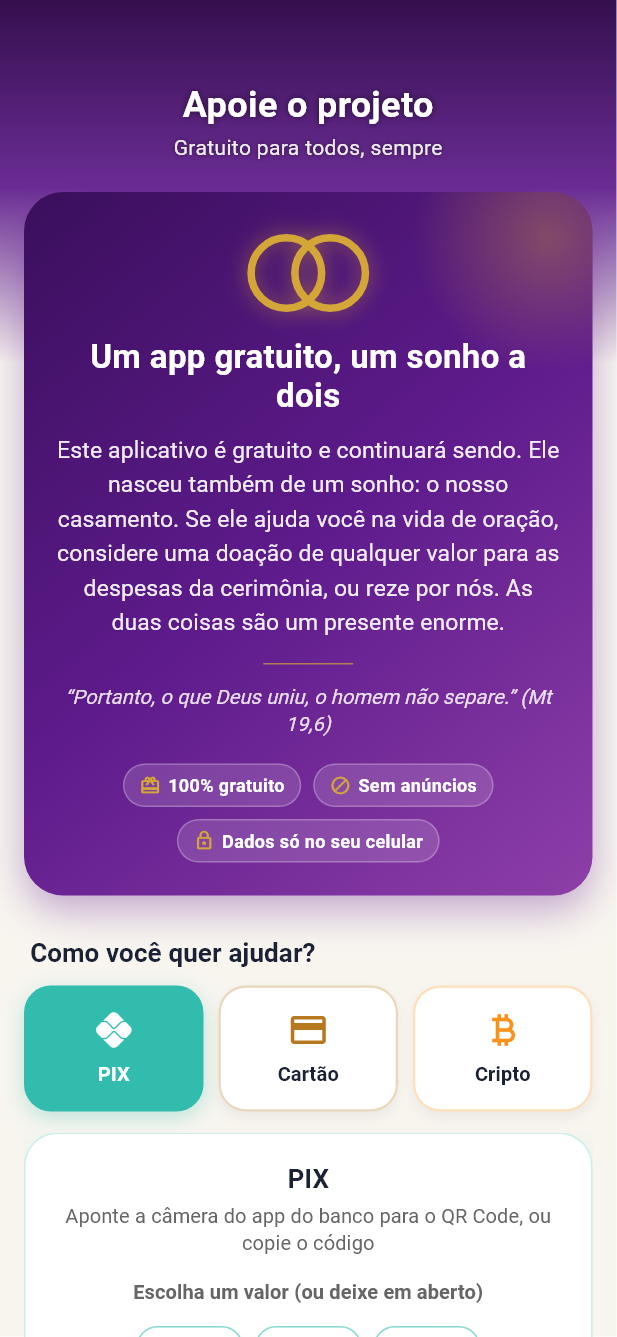
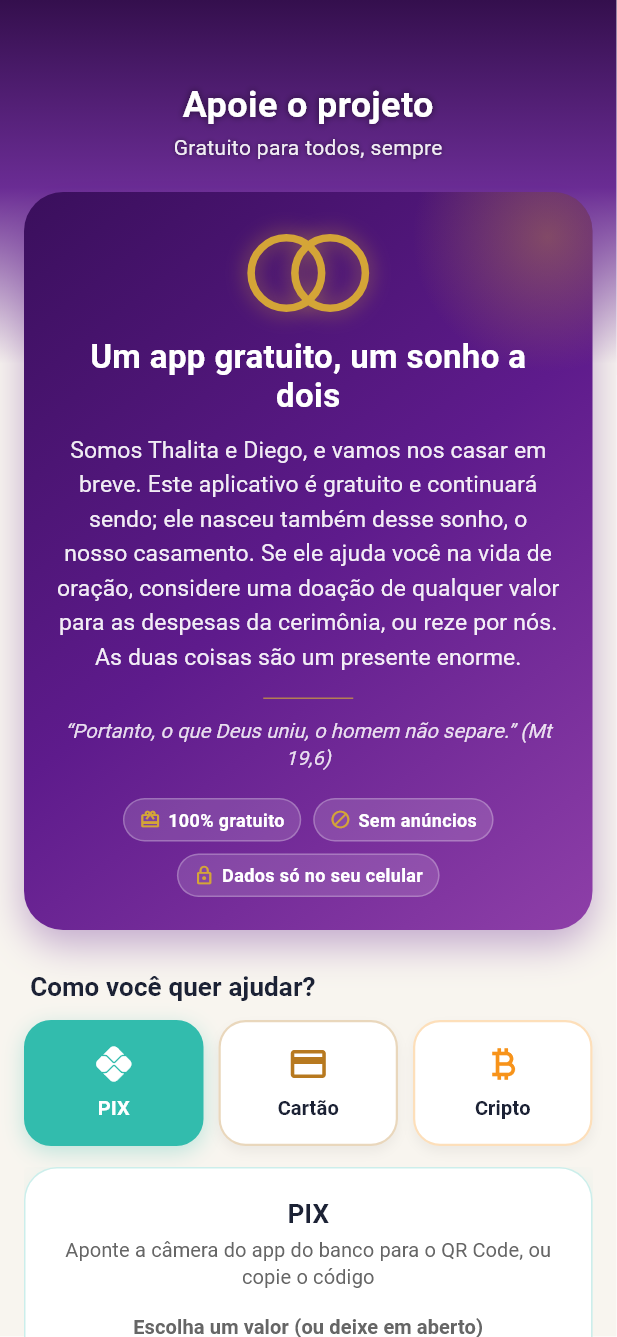
Nomes dos noivos, Thalita e Diego, no Apoie o projeto, avisos e ficha da loja; versão 1.0.1

Changed region(s): [[0.0308, 0.3067, 0.9854, 1.0], [0.8622, 0.8893, 0.893, 0.9506]]

diff --git a/lib/l10n/app_localizations.dart b/lib/l10n/app_localizations.dart
@@ -10313,7 +10313,7 @@ abstract class AppLocalizations {
   /// No description provided for @supportStory.
   ///
   /// In pt, this message translates to:
-  /// **'Este aplicativo é gratuito e continuará sendo. Ele nasceu também de um sonho: o nosso casamento. Se ele ajuda você na vida de oração, considere uma doação de qualquer valor para as despesas da cerimônia, ou reze por nós. As duas coisas são um presente enorme.'**
+  /// **'Somos Thalita e Diego, e vamos nos casar em breve. Este aplicativo é gratuito e continuará sendo; ele nasceu também desse sonho, o nosso casamento. Se ele ajuda você na vida de oração, considere uma doação de qualquer valor para as despesas da cerimônia, ou reze por nós. As duas coisas são um presente enorme.'**
   String get supportStory;
 
   /// No description provided for @supportSectionPrayer.
@@ -10337,7 +10337,7 @@ abstract class AppLocalizations {
   /// No description provided for @supportPrayerDesc.
   ///
   /// In pt, this message translates to:
-  /// **'Uma Ave-Maria pelo nosso casamento e pela nossa futura família'**
+  /// **'Uma Ave-Maria pelo casamento de Thalita e Diego e pela nossa futura família'**
   String get supportPrayerDesc;
 
   /// No description provided for @supportPrayerButton.
@@ -10451,7 +10451,7 @@ abstract class AppLocalizations {
   /// No description provided for @nudgeBody.
   ///
   /// In pt, this message translates to:
-  /// **'Este app é gratuito e nasceu para ajudar nas despesas do nosso casamento. Se ele faz bem à sua vida de oração, considere uma doação, ou reze uma Ave-Maria por nós.'**
+  /// **'Este app é gratuito e nasceu para ajudar nas despesas do nosso casamento. Se ele faz bem à sua vida de oração, considere uma doação, ou reze uma Ave-Maria por nós. Thalita e Diego'**
   String get nudgeBody;
 
   /// No description provided for @nudgeSupport.
@@ -10823,13 +10823,13 @@ abstract class AppLocalizations {
   /// No description provided for @onbProjectBody.
   ///
   /// In pt, this message translates to:
-  /// **'O Sancta é gratuito e sem anúncios. Foi feito por um casal que está se preparando para o matrimônio. Rezar por nós já é um grande presente; quem quiser ajudar encontra como em Sobre o Projeto, no menu.'**
+  /// **'O Sancta é gratuito e sem anúncios. Foi feito por Thalita e Diego, um casal que está se preparando para o matrimônio. Rezar por nós já é um grande presente; quem quiser ajudar encontra como em Sobre o Projeto, no menu.'**
   String get onbProjectBody;
 
   /// No description provided for @onbProjectBodyStore.
   ///
   /// In pt, this message translates to:
-  /// **'O Sancta é gratuito e sem anúncios. Foi feito por um casal que está se preparando para o matrimônio. Se puder, reze por nós!'**
+  /// **'O Sancta é gratuito e sem anúncios. Foi feito por Thalita e Diego, um casal que está se preparando para o matrimônio. Se puder, reze por nós!'**
   String get onbProjectBodyStore;
 
   /// No description provided for @onbReadyTitle.
@@ -10871,13 +10871,13 @@ abstract class AppLocalizations {
   /// No description provided for @afterTourBody.
   ///
   /// In pt, this message translates to:
-  /// **'O Sancta foi criado para ajudar a pagar as despesas do meu casamento, mas também para que os católicos rezem bem e vivam a fé a cada dia. Ele é gratuito e sem anúncios. Se ele te ajuda e você quiser colaborar, toque no botão abaixo; e uma oração por nós já é um grande presente.'**
+  /// **'O Sancta foi criado por Thalita e Diego para ajudar a pagar as despesas do nosso casamento, mas também para que os católicos rezem bem e vivam a fé a cada dia. Ele é gratuito e sem anúncios. Se ele te ajuda e você quiser colaborar, toque no botão abaixo; e uma oração por nós já é um grande presente.'**
   String get afterTourBody;
 
   /// No description provided for @afterTourBodyStore.
   ///
   /// In pt, this message translates to:
-  /// **'O Sancta foi criado para que os católicos rezem bem e vivam a fé a cada dia, e também para ajudar nas despesas do meu casamento. Ele é gratuito e sem anúncios. Uma oração por nós já é um grande presente.'**
+  /// **'O Sancta foi criado por Thalita e Diego para que os católicos rezem bem e vivam a fé a cada dia, e também para ajudar nas despesas do nosso casamento. Ele é gratuito e sem anúncios. Uma oração por nós já é um grande presente.'**
   String get afterTourBodyStore;
 
   /// No description provided for @afterTourButton.

diff --git a/lib/l10n/app_localizations_pt.dart b/lib/l10n/app_localizations_pt.dart
@@ -6116,7 +6116,7 @@ class AppLocalizationsPt extends AppLocalizations {
 
   @override
   String get supportStory =>
-      'Este aplicativo é gratuito e continuará sendo. Ele nasceu também de um sonho: o nosso casamento. Se ele ajuda você na vida de oração, considere uma doação de qualquer valor para as despesas da cerimônia, ou reze por nós. As duas coisas são um presente enorme.';
+      'Somos Thalita e Diego, e vamos nos casar em breve. Este aplicativo é gratuito e continuará sendo; ele nasceu também desse sonho, o nosso casamento. Se ele ajuda você na vida de oração, considere uma doação de qualquer valor para as despesas da cerimônia, ou reze por nós. As duas coisas são um presente enorme.';
 
   @override
   String get supportSectionPrayer => 'Com oração';
@@ -6129,7 +6129,7 @@ class AppLocalizationsPt extends AppLocalizations {
 
   @override
   String get supportPrayerDesc =>
-      'Uma Ave-Maria pelo nosso casamento e pela nossa futura família';
+      'Uma Ave-Maria pelo casamento de Thalita e Diego e pela nossa futura família';
 
   @override
   String get supportPrayerButton => 'Vou rezar por vocês';
@@ -6191,7 +6191,7 @@ class AppLocalizationsPt extends AppLocalizations {
 
   @override
   String get nudgeBody =>
-      'Este app é gratuito e nasceu para ajudar nas despesas do nosso casamento. Se ele faz bem à sua vida de oração, considere uma doação, ou reze uma Ave-Maria por nós.';
+      'Este app é gratuito e nasceu para ajudar nas despesas do nosso casamento. Se ele faz bem à sua vida de oração, considere uma doação, ou reze uma Ave-Maria por nós. Thalita e Diego';
 
   @override
   String get nudgeSupport => 'Apoiar';
@@ -6398,11 +6398,11 @@ class AppLocalizationsPt extends AppLocalizations {
 
   @override
   String get onbProjectBody =>
-      'O Sancta é gratuito e sem anúncios. Foi feito por um casal que está se preparando para o matrimônio. Rezar por nós já é um grande presente; quem quiser ajudar encontra como em Sobre o Projeto, no menu.';
+      'O Sancta é gratuito e sem anúncios. Foi feito por Thalita e Diego, um casal que está se preparando para o matrimônio. Rezar por nós já é um grande presente; quem quiser ajudar encontra como em Sobre o Projeto, no menu.';
 
   @override
   String get onbProjectBodyStore =>
-      'O Sancta é gratuito e sem anúncios. Foi feito por um casal que está se preparando para o matrimônio. Se puder, reze por nós!';
+      'O Sancta é gratuito e sem anúncios. Foi feito por Thalita e Diego, um casal que está se preparando para o matrimônio. Se puder, reze por nós!';
 
   @override
   String get onbReadyTitle => 'Tudo pronto!';
@@ -6426,11 +6426,11 @@ class AppLocalizationsPt extends AppLocalizations {
 
   @override
   String get afterTourBody =>
-      'O Sancta foi criado para ajudar a pagar as despesas do meu casamento, mas também para que os católicos rezem bem e vivam a fé a cada dia. Ele é gratuito e sem anúncios. Se ele te ajuda e você quiser colaborar, toque no botão abaixo; e uma oração por nós já é um grande presente.';
+      'O Sancta foi criado por Thalita e Diego para ajudar a pagar as despesas do nosso casamento, mas também para que os católicos rezem bem e vivam a fé a cada dia. Ele é gratuito e sem anúncios. Se ele te ajuda e você quiser colaborar, toque no botão abaixo; e uma oração por nós já é um grande presente.';
 
   @override
   String get afterTourBodyStore =>
-      'O Sancta foi criado para que os católicos rezem bem e vivam a fé a cada dia, e também para ajudar nas despesas do meu casamento. Ele é gratuito e sem anúncios. Uma oração por nós já é um grande presente.';
+      'O Sancta foi criado por Thalita e Diego para que os católicos rezem bem e vivam a fé a cada dia, e também para ajudar nas despesas do nosso casamento. Ele é gratuito e sem anúncios. Uma oração por nós já é um grande presente.';
 
   @override
   String get afterTourButton => 'Conhecer o projeto';

diff --git a/lib/l10n/app_localizations_en.dart b/lib/l10n/app_localizations_en.dart
@@ -6108,7 +6108,7 @@ class AppLocalizationsEn extends AppLocalizations {
 
   @override
   String get supportStory =>
-      'This app is free and will stay free. It was also born from a dream: our wedding. If it helps your prayer life, please consider a donation of any amount towards the wedding costs, or pray for us. Both are a wonderful gift.';
+      'We are Thalita and Diego, and we are getting married soon. This app is free and will stay free; it was also born from that dream, our wedding. If it helps your prayer life, please consider a donation of any amount towards the wedding costs, or pray for us. Both are a wonderful gift.';
 
   @override
   String get supportSectionPrayer => 'With prayer';
@@ -6121,7 +6121,7 @@ class AppLocalizationsEn extends AppLocalizations {
 
   @override
   String get supportPrayerDesc =>
-      'A Hail Mary for our wedding and our future family';
+      'A Hail Mary for Thalita and Diego\'s wedding and our future family';
 
   @override
   String get supportPrayerButton => 'I will pray for you';
@@ -6182,7 +6182,7 @@ class AppLocalizationsEn extends AppLocalizations {
 
   @override
   String get nudgeBody =>
-      'This app is free and was born to help with our wedding expenses. If it does good for your prayer life, please consider a donation, or pray a Hail Mary for us.';
+      'This app is free and was born to help with our wedding expenses. If it does good for your prayer life, please consider a donation, or pray a Hail Mary for us. Thalita and Diego';
 
   @override
   String get nudgeSupport => 'Support';
@@ -6389,11 +6389,11 @@ class AppLocalizationsEn extends AppLocalizations {
 
   @override
   String get onbProjectBody =>
-      'Sancta is free and has no ads. It was made by a couple preparing for marriage. Praying for us is already a great gift; if you\'d like to help, see About the Project in the menu.';
+      'Sancta is free and has no ads. It was made by Thalita and Diego, a couple preparing for marriage. Praying for us is already a great gift; if you\'d like to help, see About the Project in the menu.';
 
   @override
   String get onbProjectBodyStore =>
-      'Sancta is free and has no ads. It was made by a couple preparing for marriage. If you can, please pray for us!';
+      'Sancta is free and has no ads. It was made by Thalita and Diego, a couple preparing for marriage. If you can, please pray for us!';
 
   @override
   String get onbReadyTitle => 'All set!';
@@ -6417,11 +6417,11 @@ class AppLocalizationsEn extends AppLocalizations {
 
   @override
   String get afterTourBody =>
-      'Sancta was created to help pay for my wedding expenses, but also so that Catholics can pray well and live their faith every day. It is free and has no ads. If it helps you and you\'d like to contribute, tap the button below; and a prayer for us is already a great gift.';
+      'Sancta was created by Thalita and Diego to help pay for our wedding expenses, but also so that Catholics can pray well and live their faith every day. It is free and has no ads. If it helps you and you\'d like to contribute, tap the button below; and a prayer for us is already a great gift.';
 
   @override
   String get afterTourBodyStore =>
-      'Sancta was created so that Catholics can pray well and live their faith every day, and also to help with my wedding expenses. It is free and has no ads. A prayer for us is already a great gift.';
+      'Sancta was created by Thalita and Diego so that Catholics can pray well and live their faith every day, and also to help with our wedding expenses. It is free and has no ads. A prayer for us is already a great gift.';
 
   @override
   String get afterTourButton => 'Learn about the project';

diff --git a/README.md b/README.md
@@ -15,7 +15,7 @@ Aplicativo gratuito, sem anúncios e sem conta, para a vida de oração católic
 - O backup é feito por você, quando quiser. A senha do Exame não entra no backup.
 
 ## Apoie o projeto
-O app foi feito por um casal que se prepara para o matrimônio, para ajudar nas despesas do casamento e para que os católicos rezem bem. Quem quiser colaborar pode usar PIX, cartão/PayPal (Ko-fi: <https://ko-fi.com/sanctadevocionario>) ou criptomoedas, em **Sobre o Projeto**, no menu. Uma oração por nós já é um grande presente.
+O app foi feito por Thalita e Diego, um casal que se prepara para o matrimônio, para ajudar nas despesas do casamento e para que os católicos rezem bem. Quem quiser colaborar pode usar PIX, cartão/PayPal (Ko-fi: <https://ko-fi.com/sanctadevocionario>) ou criptomoedas, em **Sobre o Projeto**, no menu. Uma oração por nós já é um grande presente.
 
 ## Compilar
 Requer o [Flutter](https://docs.flutter.dev/get-started/install) (3.38 ou mais novo).
